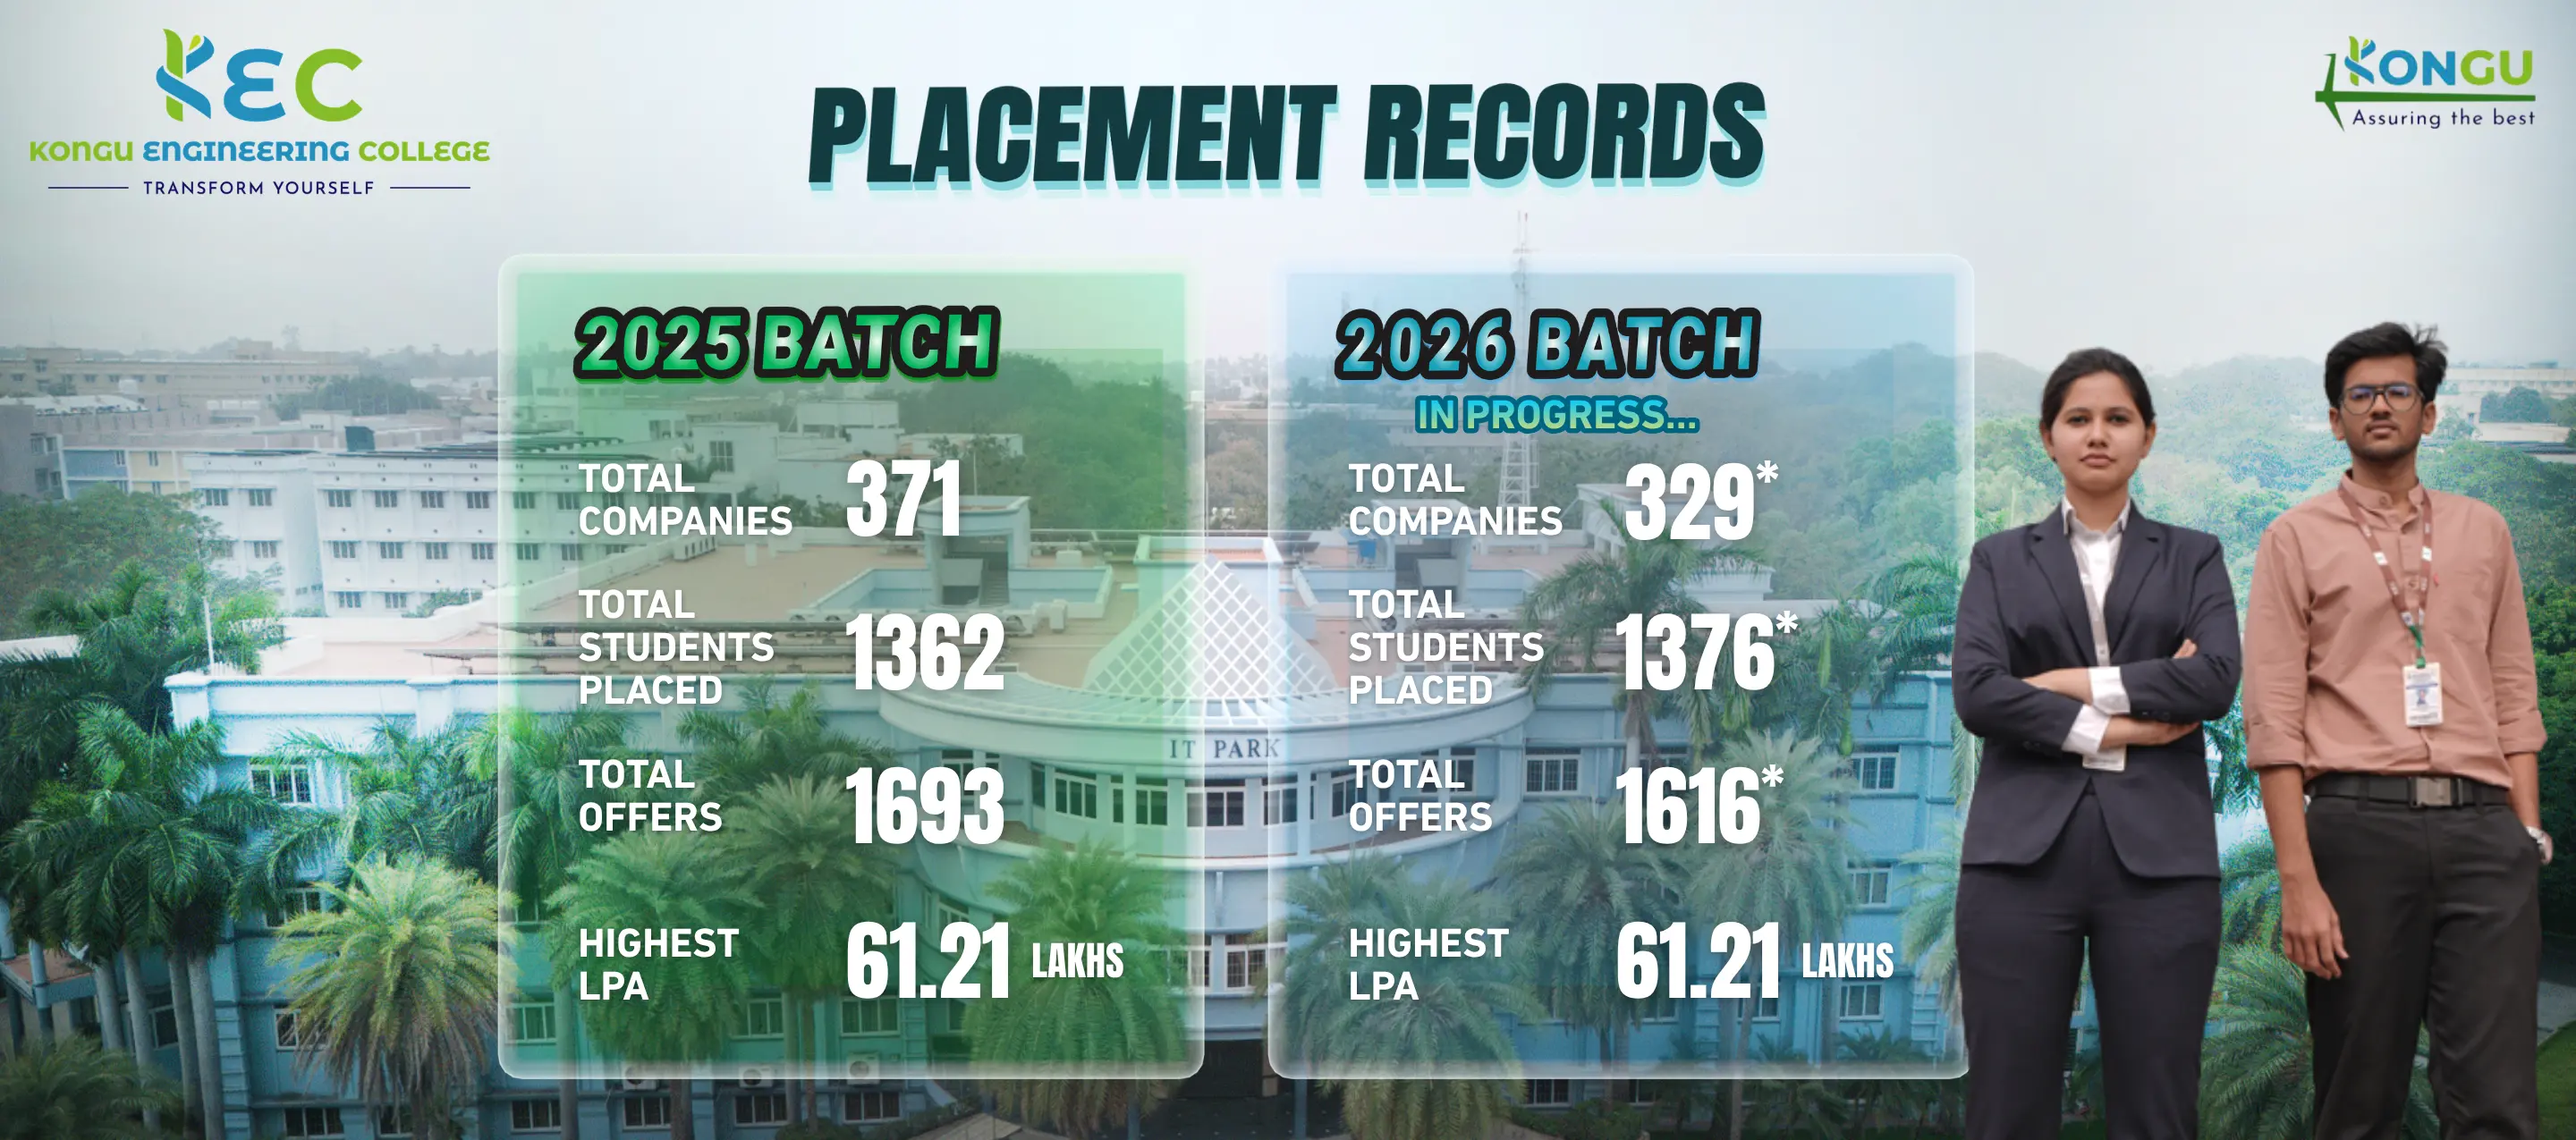
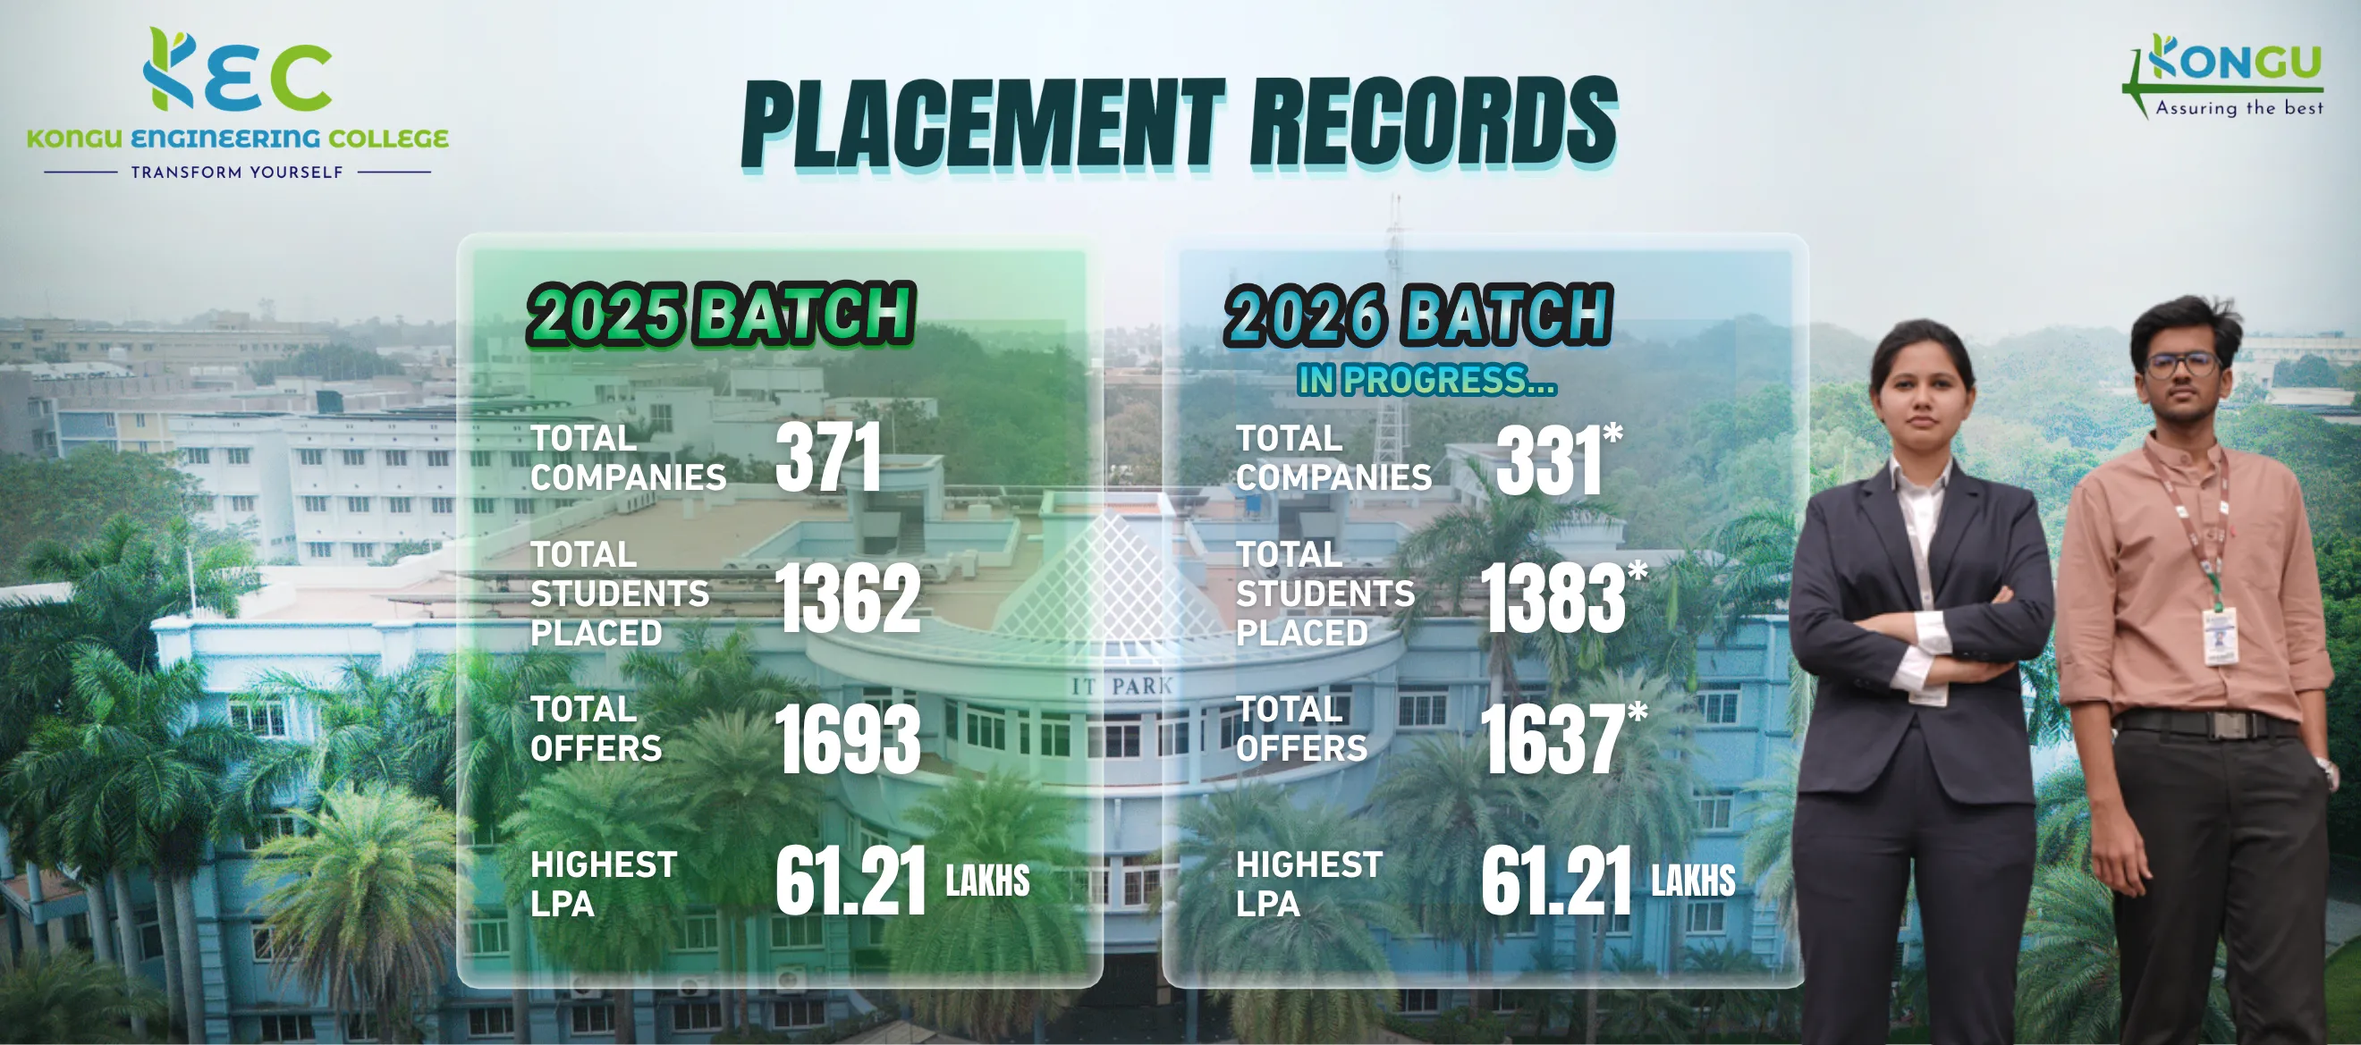
academic,governing,placement updated

diff --git a/src/components/AboutUs/AcademicCouncil/AcademicCouncil.jsx b/src/components/AboutUs/AcademicCouncil/AcademicCouncil.jsx
@@ -38,7 +38,7 @@ const AcademicCouncil = () => {
       ],
     },
     {
-      title: "Chairmen - Board of Studies",
+      title: "Chairman - Board of Studies",
       members: [
         "Dr.S.Balaji - Civil Engg",
         "Dr.B.Meenakshi Priya - Mechanical Engg",
@@ -46,20 +46,20 @@ const AcademicCouncil = () => {
         "Dr.R.Thangarajan - CSE & IT",
         "Dr.M.Karthik - EEE",
         "Dr.R.Baskar - Food Tech",
-        "Dr.C.Duraisamy - S&H",
+        "Dr.R.Viswanathan - S&H",
         "Dr.P.Karthikeyan - Management Science",
       ],
     },
     {
       title: "Controller of Examinations",
-      members: ["Dr.P.Shanmugam"],
+      members: ["Dr.R.Thamilselvan"],
     },
     {
       title: "Teaching Staff Representatives",
       members: [
         "Dr.R.Somasundaram - MBA",
         "Dr.T.P.Sathishkumar - Mechanical",
-        "Dr.P.Jayanthi - CSE",
+        "Dr.P.Jayanthi - CSD",
         "Dr.P.Srinivasan - Chemistry",
       ],
     },
@@ -69,7 +69,7 @@ const AcademicCouncil = () => {
         "Dr.P.Balasubramanie - Registrar",
         "Dr.K.Krishnamurthy - Student Affairs",
         "Dr.P.N.Palanisamy - Planning Cell",
-        "Dr.R.Parameshwaran - TBI & IIC",
+        "Mr.P.S.Kannan - TBI & IIC",
         "Dr.N.Senthilnathan - Accreditation",
         "Dr.R.Rajasekar - R&D",
         "Dr.N.Shanthi - Training Officer",
@@ -80,11 +80,12 @@ const AcademicCouncil = () => {
         "Dr.S.Suji Prasad - HoD, EIE",
         "Dr.S.Malliga - HoD, CSE",
         "Dr.S.Anandamurugan - HoD, IT",
-        "Dr.C.S.Kanimozhi Selvi - HoD, AI",
+        "Dr.P.Natesan - HoD, AIDS",
+        "Dr.R.R.Rajalaxmi - HoD, AIML",
         "Dr.V.Sangeetha - HoD, Chemical",
         "Dr.A.Tamilarasi - HoD, CA",
         "Dr.S.Kalaiselvi - HoD, CT-UG",
-        "Dr.E.Gothai - HoD, CT-PG",
+        "Dr.R.C.Suganthe - HoD, CT-PG",
         "Dr.P.Dhakshinamoorthy - Placement Officer",
         "Dr.M.Dhavamani - HoD, Maths",
         "Dr.K.Prabhu - HoD, Physics",
@@ -94,7 +95,7 @@ const AcademicCouncil = () => {
     },
     {
       title: "Member Secretary",
-      members: ["Dr.G.Murugesan, Chief Coordinator (Academic)"],
+      members: ["Dr.G.Murugesan, Dean (Academic)"],
     },
   ];
 

diff --git a/src/components/ExtraPages/PlacementSection/Placement.jsx b/src/components/ExtraPages/PlacementSection/Placement.jsx
@@ -272,7 +272,7 @@ const Placement = () => {
                 <img src={card1} alt="Companies Visited Icon" />
               </div>
 
-              <div className="Placement-stat-valu">329</div>
+              <div className="Placement-stat-valu">331</div>
             </div>
 
             <div className="ps-stat-card blue center">
@@ -284,7 +284,7 @@ const Placement = () => {
                 <img src={card2} alt="Students Placed Icon" />
               </div>
 
-              <div className="Placement-stat-valu">1376</div>
+              <div className="Placement-stat-valu">1383</div>
             </div>
 
             <div className="ps-stat-card green">

diff --git a/src/components/AboutUs/GoverningCouncil/GoverningCouncil.jsx b/src/components/AboutUs/GoverningCouncil/GoverningCouncil.jsx
@@ -13,7 +13,7 @@ const members = [
     role: "Chairman",
   },
   {
-    name: "Thiru.P.C.Palanisamy",
+    name: "Thiru. C. Devarajan",
     designation: "President, The Kongu Vellalar Institute of Technology Trust",
     role: "Member",
   },
@@ -65,7 +65,7 @@ const members = [
   },
   {
     name: "Dr. G. Murugesan MS ME PhD",
-    designation: "Chief Coordinator Academic, Professor, ECE, KEC",
+    designation: "Dean Academic, Professor, ECE, KEC",
     role: "Member from Faculty",
   },
   {
